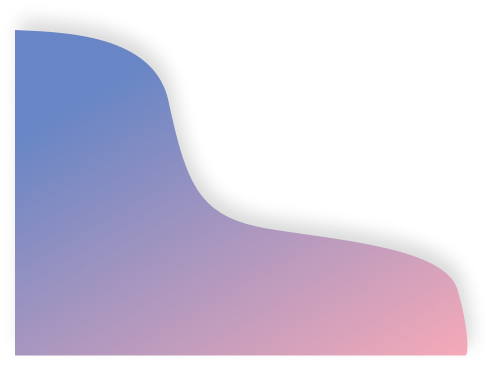
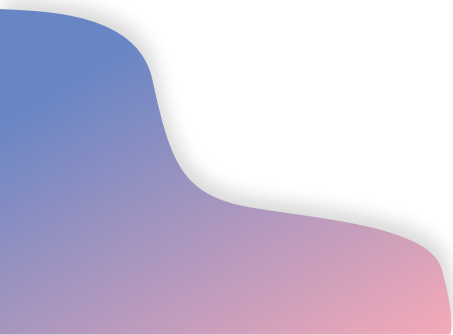
Modification du README

diff --git a/src/template/styles.scss b/src/template/styles.scss
@@ -1,5 +1,9 @@
-#logo {
-  width: 100vw;
-  height: 100vh;
-  background-color: red;
+#wave1 {
+  float: left;
+  position: absolute;
+}
+
+#wave2 {
+  float: right;
+  position: absolute;
 }

diff --git a/src/template/README.md b/src/template/README.md
@@ -1,5 +1,7 @@
-<img src="https://raw.githubusercontent.com/Samuel-Martineau/Samuel-Martineau/master/vague.png" />
+<img id="wave1" src="https://raw.githubusercontent.com/Samuel-Martineau/Samuel-Martineau/master/vague.png" />
 
 # Samuel Martineau
 
 Je suis un étudiant de niveau seconaire passionné par l'informatique !
+
+<img id="wave1" src="https://raw.githubusercontent.com/Samuel-Martineau/Samuel-Martineau/master/vague.png" />
